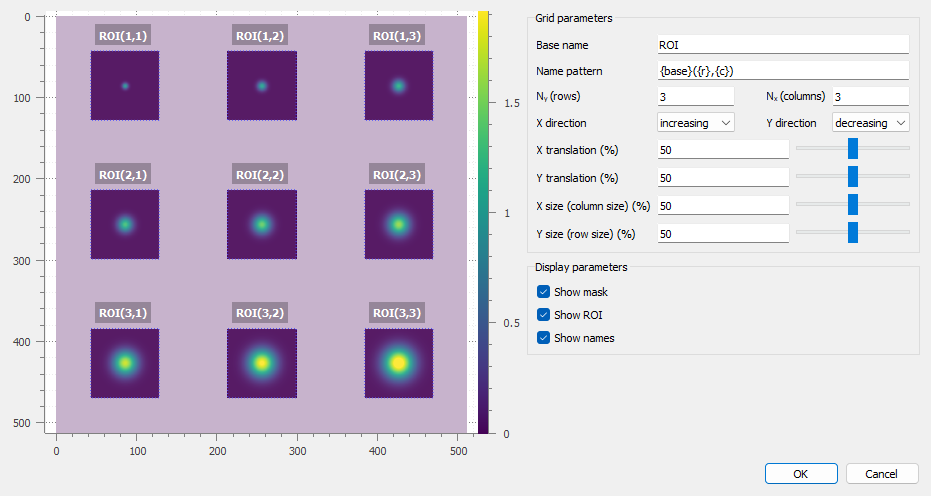
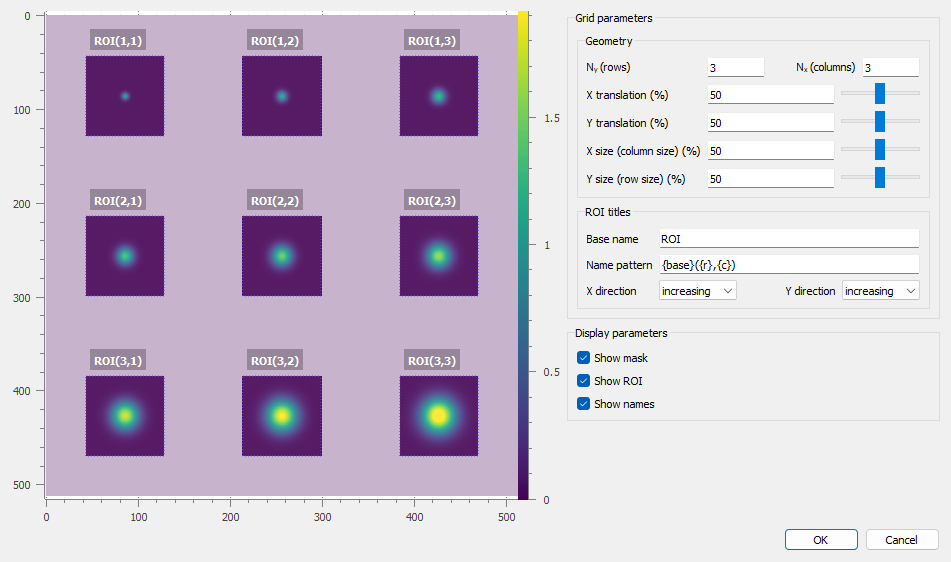
Refactor ROI grid parameters and add grid ROI creation function

diff --git a/datalab/gui/roigrideditor.py b/datalab/gui/roigrideditor.py
@@ -15,11 +15,10 @@ from sigima.objects import ImageObj, ImageROI, RectangularROI
 from sigima.objects.base import ChoiceEnum
 
 from datalab.adapters_plotpy.factories import create_adapter_from_object
-from datalab.config import DEBUG, _
-from datalab.env import execenv
+from datalab.config import _
 
 
-class DirectionChoice(ChoiceEnum):
+class Direction(ChoiceEnum):
     """Direction choice"""
 
     INCREASING = _("increasing")
@@ -39,29 +38,12 @@ class ROIGridParam(gds.DataSet):
         if self.roi_editor.is_ready():
             self.roi_editor.SIG_GEOMETRY_CHANGED.emit()
 
-    base_name = gds.StringItem(_("Base name"), default="ROI").set_prop(
-        "display", callback=geometry_changed
-    )
-    name_pattern = gds.StringItem(
-        _("Name pattern"), default="{base}({r},{c})"
-    ).set_prop("display", callback=geometry_changed)
+    _b_group0 = gds.BeginGroup(_("Geometry"))
     ny = gds.IntItem(
-        "N<sub>y</sub> (%s)" % _("rows"), default=1, nonzero=True
+        "N<sub>y</sub> (%s)" % _("rows"), default=3, nonzero=True
     ).set_prop("display", callback=geometry_changed)
     nx = (
-        gds.IntItem("N<sub>x</sub> (%s)" % _("columns"), default=1, nonzero=True)
-        .set_prop("display", callback=geometry_changed)
-        .set_pos(col=1)
-    )
-    xdirection = gds.ChoiceItem(_("X direction"), DirectionChoice.choices()).set_prop(
-        "display", callback=geometry_changed
-    )
-    ydirection = (
-        gds.ChoiceItem(
-            _("Y direction"),
-            DirectionChoice.choices(),
-            default=DirectionChoice.DECREASING.value,
-        )
+        gds.IntItem("N<sub>x</sub> (%s)" % _("columns"), default=3, nonzero=True)
         .set_prop("display", callback=geometry_changed)
         .set_pos(col=1)
     )
@@ -97,6 +79,23 @@ class ROIGridParam(gds.DataSet):
         unit="%",
         slider=True,
     ).set_prop("display", callback=geometry_changed)
+    _e_group0 = gds.EndGroup(_("Geometry"))
+    _b_group1 = gds.BeginGroup(_("ROI titles"))
+    base_name = gds.StringItem(_("Base name"), default="ROI").set_prop(
+        "display", callback=geometry_changed
+    )
+    name_pattern = gds.StringItem(
+        _("Name pattern"), default="{base}({r},{c})"
+    ).set_prop("display", callback=geometry_changed)
+    xdirection = gds.ChoiceItem(_("X direction"), Direction.choices()).set_prop(
+        "display", callback=geometry_changed
+    )
+    ydirection = (
+        gds.ChoiceItem(_("Y direction"), Direction.choices())
+        .set_prop("display", callback=geometry_changed)
+        .set_pos(col=1)
+    )
+    _e_group1 = gds.EndGroup(_("ROI titles"))
 
 
 class DisplayParam(gds.DataSet):
@@ -122,6 +121,40 @@ class DisplayParam(gds.DataSet):
     show_names = gds.BoolItem(_("Show names"), default=True).set_prop(
         "display", callback=display_changed, active=_prop_show_roi
     )
+
+
+def add_grid_roi_to_image(obj: ImageObj, p: ROIGridParam) -> None:
+    """Add a grid ROI to the image object.
+
+    Args:
+        obj: The image object to create the ROI for.
+        p: ROIGridParam object containing the grid parameters.
+    """
+    roi = ImageROI()
+    dx_cell = obj.width / p.nx
+    dy_cell = obj.height / p.ny
+    dx = dx_cell * p.xsize / 100.0
+    dy = dy_cell * p.ysize / 100.0
+    xtrans = obj.width * (p.xtranslation - 50.0) / 100.0
+    ytrans = obj.height * (p.ytranslation - 50.0) / 100.0
+    lbl_rows = range(p.ny)
+    if p.ydirection == Direction.DECREASING:
+        lbl_rows = range(p.ny - 1, -1, -1)
+    lbl_cols = range(p.nx)
+    if p.xdirection == Direction.DECREASING:
+        lbl_cols = range(p.nx - 1, -1, -1)
+    ptn: str = p.name_pattern
+    for ir in range(p.ny):
+        for ic in range(p.nx):
+            x0 = obj.x0 + (ic + 0.5) * dx_cell + xtrans - 0.5 * dx
+            y0 = obj.y0 + (ir + 0.5) * dy_cell + ytrans - 0.5 * dy
+            nir, nic = lbl_rows[ir], lbl_cols[ic]
+            try:
+                title = ptn.format(base=p.base_name, r=nir + 1, c=nic + 1)
+            except Exception:  # pylint: disable=broad-except
+                title = f"ROI({nir + 1},{nic + 1})"
+            roi.add_roi(RectangularROI([x0, y0, dx, dy], indices=False, title=title))
+    obj.roi = roi
 
 
 class ImageGridROIEditor(PlotDialog):
@@ -165,7 +198,7 @@ class ImageGridROIEditor(PlotDialog):
             _("Display parameters"), DisplayParam, show_button=False, roi_editor=self
         )
         gds.update_dataset(self.displayparamwidget.dataset, displayparam)
-        self.init_param()
+        self.update_obj(update_item=False)
 
         if options is None:
             options = self.ADDITIONAL_OPTIONS
@@ -227,61 +260,9 @@ class ImageGridROIEditor(PlotDialog):
                 plot.add_item(ritem)
         plot.replot()
 
-    def init_param(self) -> None:
-        """Initialize parameters"""
-        rows, cols = self.obj.data.shape
-        gp = self.gridparamwidget.dataset
-        gp.nx = gp.ny = 3
-        gp.xtranslation = gp.ytranslation = gp.xsize = gp.ysize = 50
-        self.gridparamwidget.get()
-        self.update_obj(update_item=False)
-
-    def __get_roi_coords(
-        self, i_row: int, i_col: int
-    ) -> list[float, float, float, float]:
-        """Get the coordinates of the ROI for the given row and column indices"""
-        obj = self.obj
-        gp = self.gridparamwidget.dataset
-
-        xtrans = obj.width * (float(gp.xtranslation) - 50.0) / 100.0
-        ytrans = obj.height * (float(gp.ytranslation) - 50.0) / 100.0
-
-        dx_max = obj.width / gp.nx
-        dx = dx_max * float(gp.xsize) / 100.0
-        dy_max = obj.height / gp.ny
-        dy = dy_max * float(gp.ysize) / 100.0
-
-        x1 = obj.x0 + (i_col + 0.5) * dx_max + xtrans - 0.5 * dx
-        y1 = obj.y0 + (i_row + 0.5) * dy_max + ytrans - 0.5 * dy
-
-        return [x1, y1, dx, dy]
-
     def update_obj(self, update_item: bool = True) -> None:
         """Update the object with the current parameters"""
-        roi = ImageROI()
-        gp = self.gridparamwidget.dataset
-        # Iterate over grid cells, taking into account the number of columns and rows,
-        # the direction of increasing rows and columns
-        row_list = list(range(gp.ny))
-        col_list = list(range(gp.nx))
-        if gp.ydirection == DirectionChoice.DECREASING.value:
-            row_list = list(range(gp.ny - 1, -1, -1))
-        if gp.xdirection == DirectionChoice.DECREASING.value:
-            col_list = list(range(gp.nx - 1, -1, -1))
-        ptn: str = gp.name_pattern
-        for i_row in row_list:
-            for i_col in col_list:
-                try:
-                    title = ptn.format(base=gp.base_name, r=i_row + 1, c=i_col + 1)
-                except Exception:  # pylint: disable=broad-except
-                    title = f"{gp.base_name}({i_row + 1}, {i_col + 1})"
-                x0, y0, dx, dy = self.__get_roi_coords(i_row, i_col)
-                coords = [x0, y0, dx, dy]
-                if DEBUG:
-                    execenv.print(f"Creating ROI: {title} with coords {coords}")
-                single_roi = RectangularROI(coords, indices=False, title=title)
-                roi.add_roi(single_roi)
-        self.obj.roi = roi
+        add_grid_roi_to_image(self.obj, self.gridparamwidget.dataset)
         if update_item:
             self.update_items()
 
